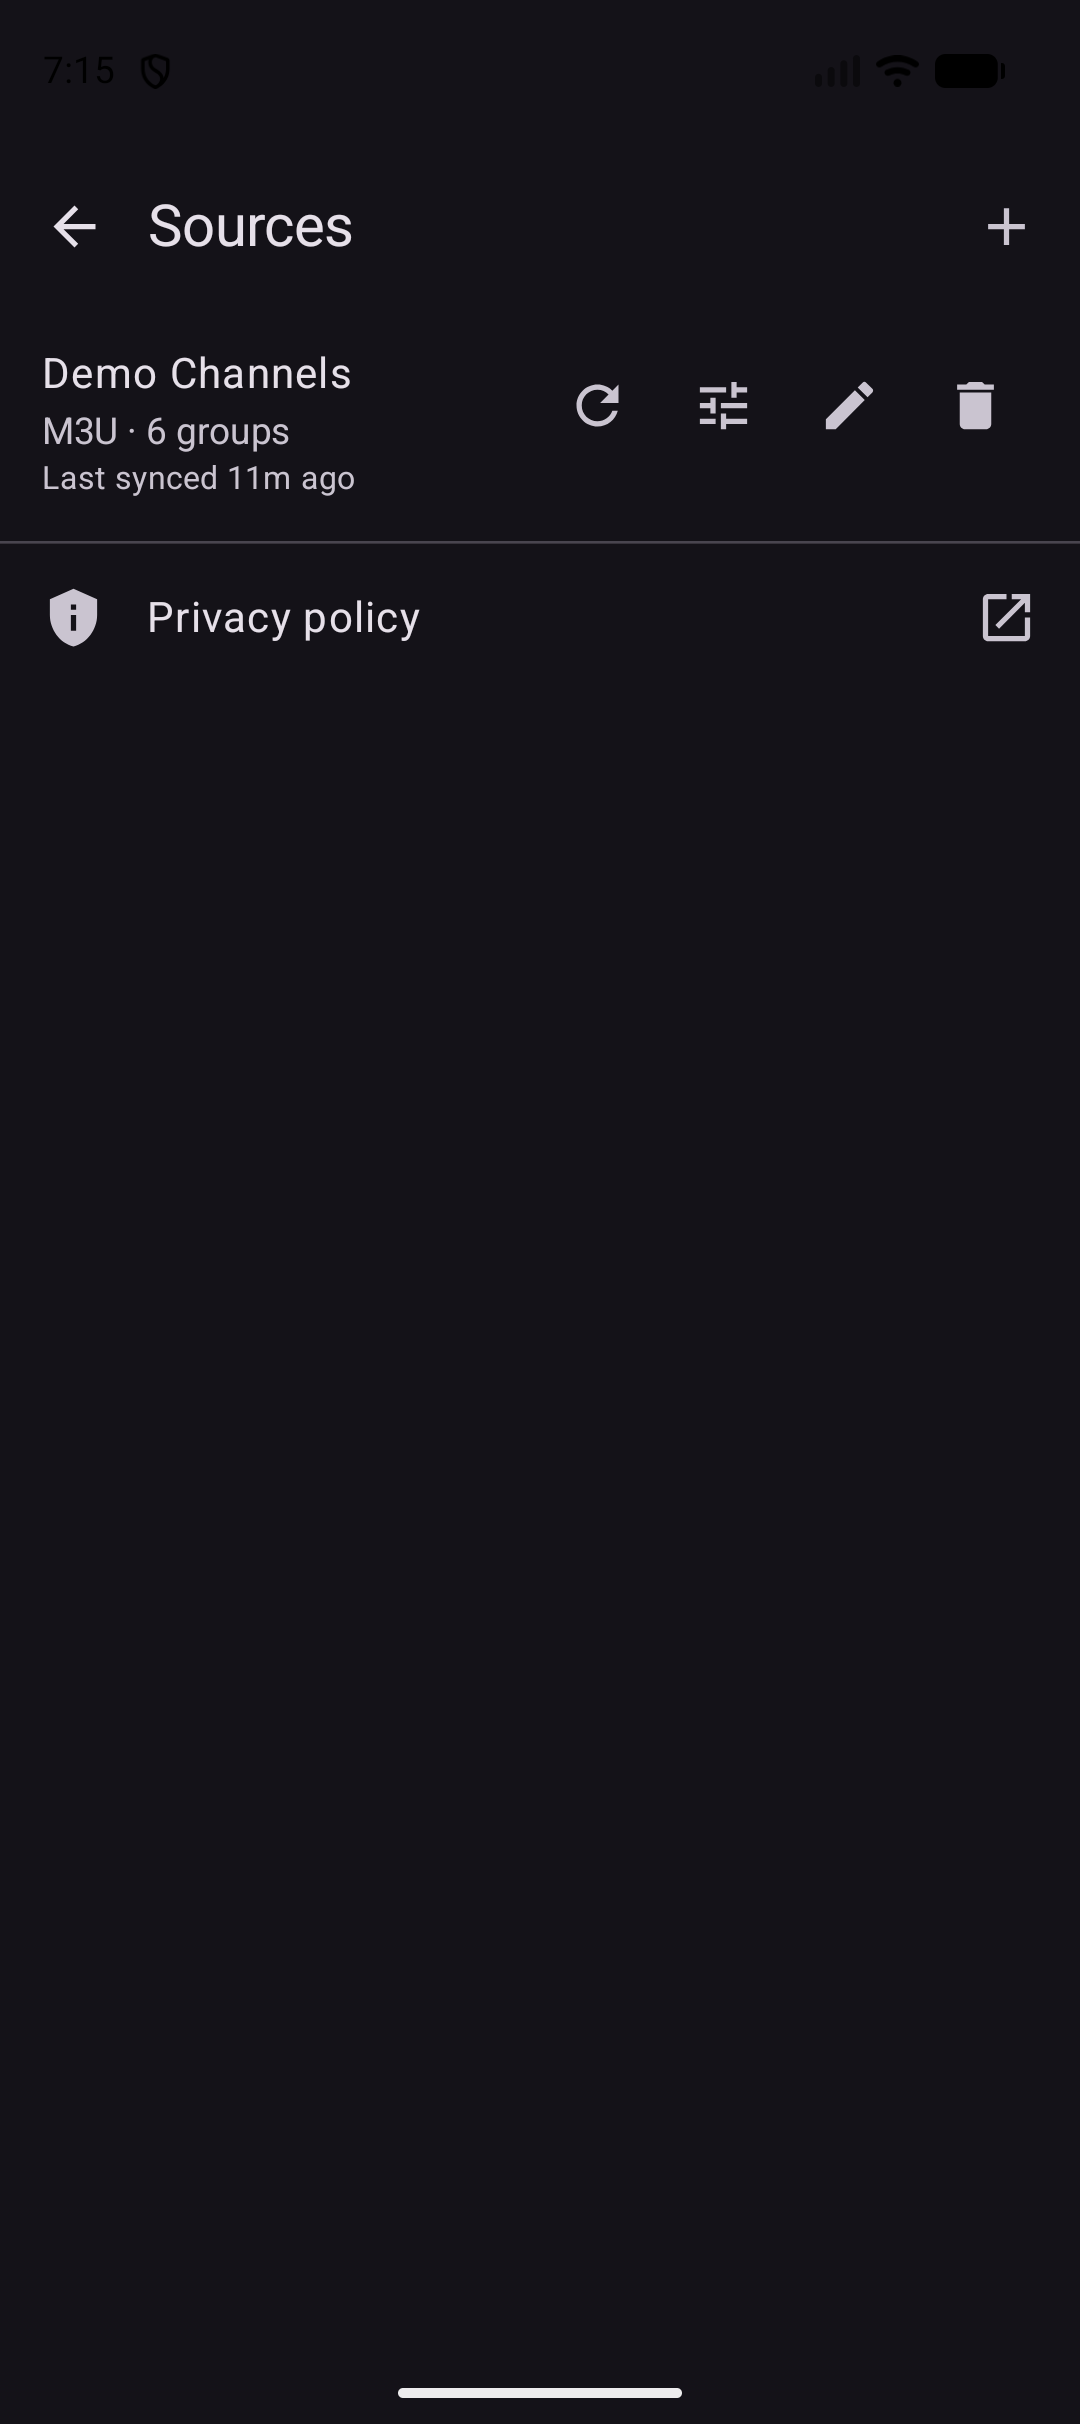
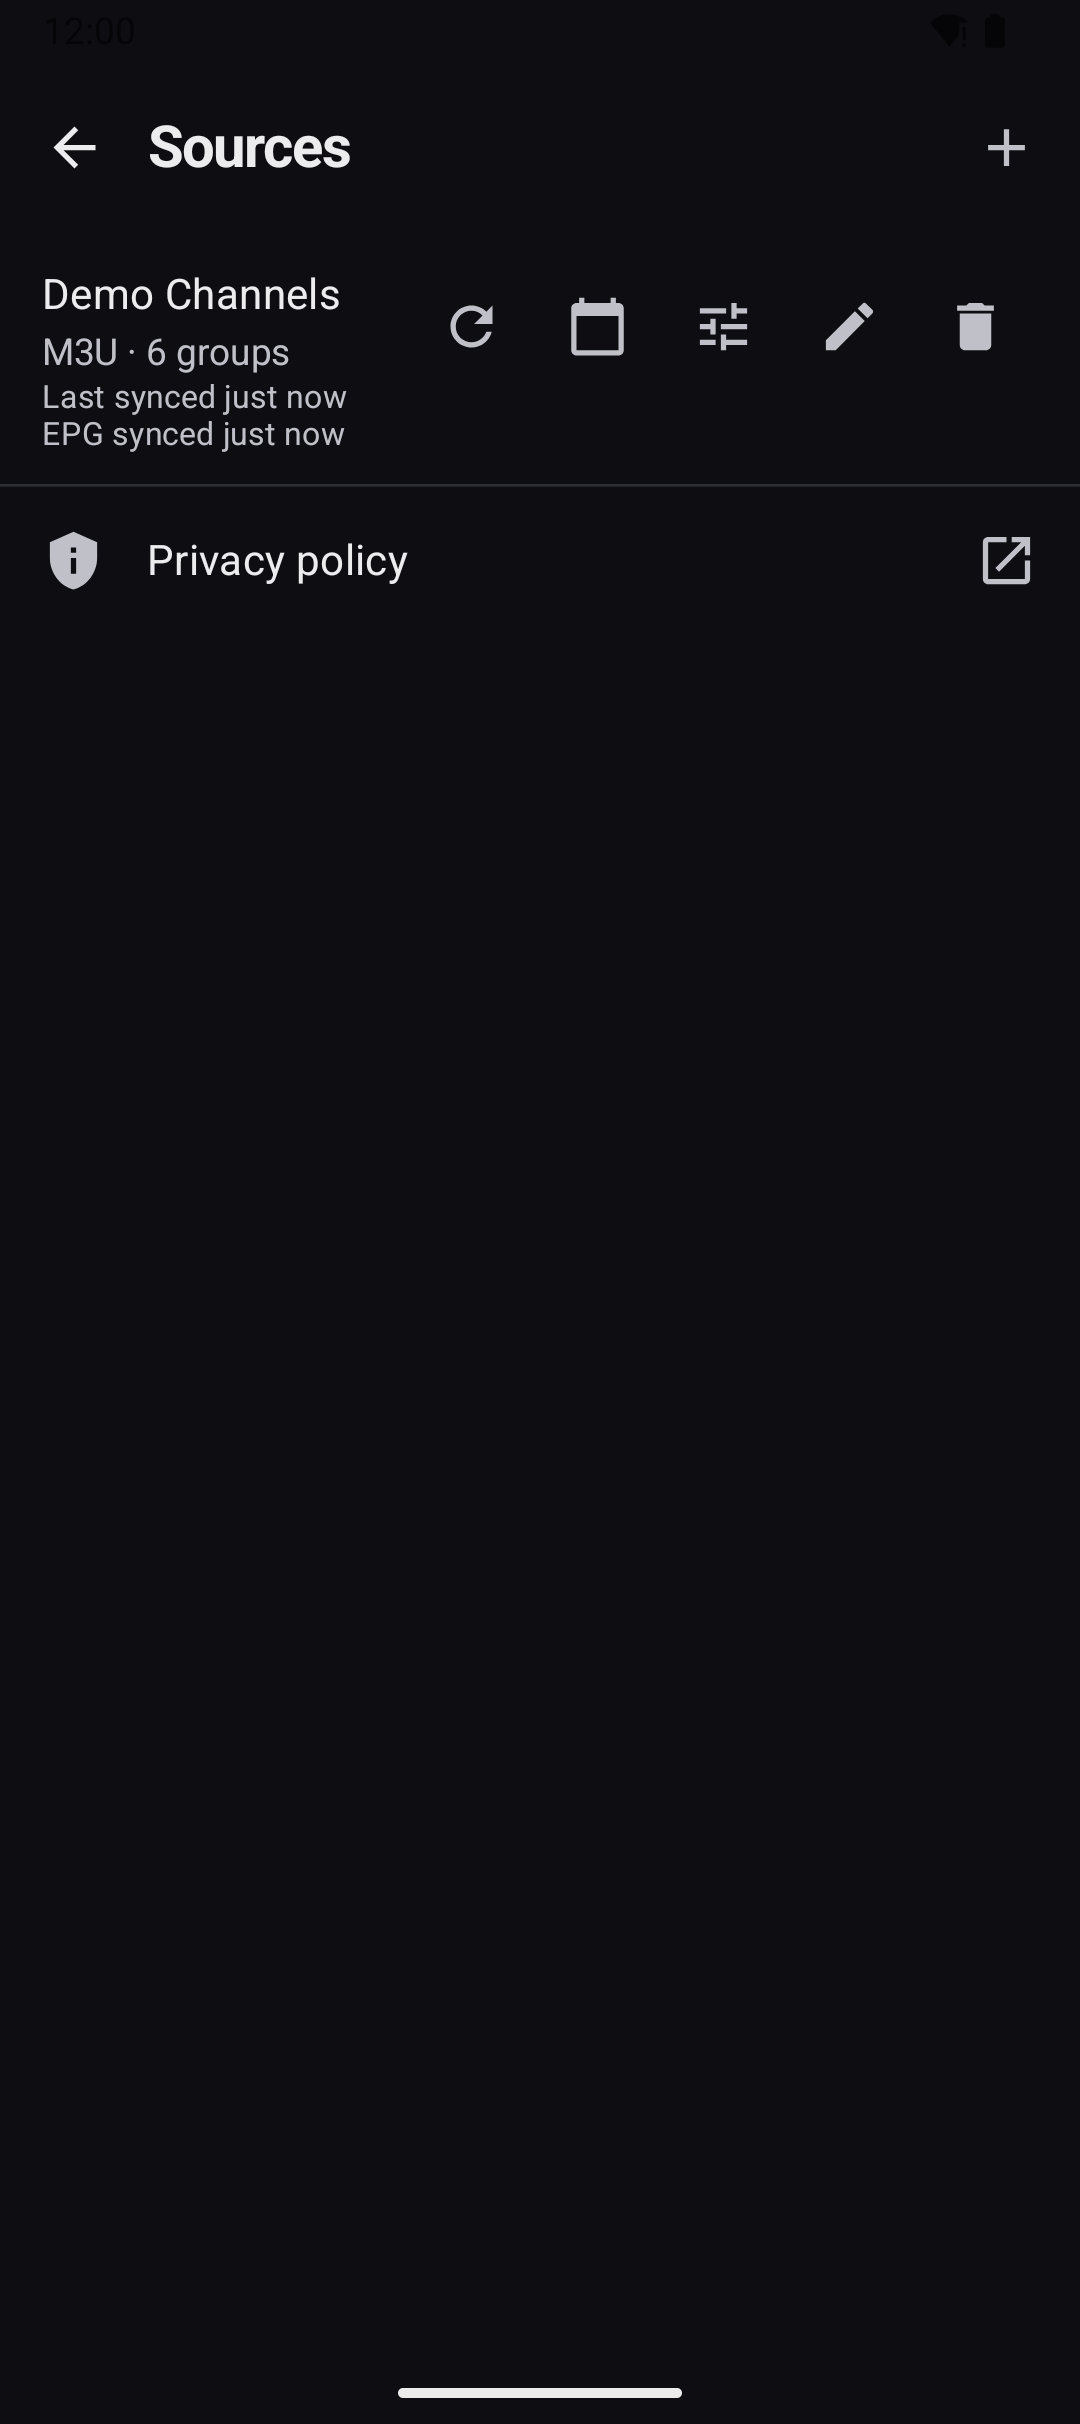
docs: re-capture all store screenshots on amber redesign, add tablet sets
Old phone/TV sets predated the theme redesign and the EPG fixture, and
Play Console additionally wants 7" and 10" tablet sets. All four
profiles now show six surfaces including the populated guide and
per-row now-playing — captured via the scripted capture-flow.yaml on
android-36 emulators, release build, fresh EPG.

diff --git a/docs/screenshots/README.md b/docs/screenshots/README.md
@@ -1,41 +1,74 @@
 # Play Store screenshot assets
 
-Captured against the `screenshots.m3u` fixture (public-domain HLS streams,
-no broadcaster references) on a Pixel 9a emulator (1080×2424, Android 17,
-release APK v1.4.2). Re-capture by:
+Four device sets (phone, 7" tablet, 10" tablet, Android TV), six surfaces
+each, captured against the `screenshots.m3u` fixture + `screenshots-epg.xml`
+EPG (public-domain HLS streams, generic programme titles, no broadcaster
+references) on the amber redesign, release build.
 
-1. Install the release APK.
-2. Accept the consent dialog.
-3. Settings → + → M3U → URL: `https://derkschooltink.github.io/GoorTV/screenshots.m3u`.
-4. Open the source's Groups dialog, tap **All**, **Save** (new sources default
-   to "no groups selected" — this is intentional).
-5. Drive the flows captured below.
+| Set | Resolution | Play Console slot |
+|---|---|---|
+| `phone/` | 1080×2424 | Phone screenshots |
+| `tablet-7/` | 1080×1920 | 7-inch tablet |
+| `tablet-10/` | 1440×2560 | 10-inch tablet |
+| `tv/` | 1920×1080 | Android TV (TV banner is separate, see store-assets) |
 
-## Phone (1080×2424)
+## Surfaces (identical across sets)
 
 | File | Surface | What it shows |
 |---|---|---|
-| `phone/01-home.png` | Home | 9 channels grouped by category, plus the top-bar (favorites / sort / search / guide / settings) |
-| `phone/02-player.png` | Player | Big Buck Bunny rendering full-screen via Media3 ExoPlayer |
-| `phone/03-settings.png` | Settings | Demo source listed with sync/groups/edit/delete actions, plus the in-app Privacy policy link |
-| `phone/04-search.png` | Search | Search bar focused, Recently Watched rail, grouped channel list |
-| `phone/05-hide-menu.png` | Home (long-press) | DropdownMenu with "Hide channel" — demonstrates UGC moderation per A3.5 |
+| `01-home.png` | Home | Category-grouped channels with EPG now-playing + progress per row |
+| `02-player.png` | Player | Big Buck Bunny fullscreen via Media3 ExoPlayer (Demo News channel) |
+| `03-settings.png` | Settings | Configured source with sync/groups/edit/delete, Privacy policy link |
+| `04-search.png` | Search | Search bar focused over the grouped channel list |
+| `05-hide-menu.png` | Home (long-press) | "Hide channel" menu — UGC moderation per A3.5 |
+| `06-guide.png` | Guide | Populated XMLTV grid with now-line |
 
-## TV (3840×2160)
+## Re-capture procedure (scripted)
 
-Captured against the same fixture on an AOSP TV on x86 emulator (Android 16,
-debug build from `fix/cast-non-gms-crash`). Play Store accepts either
-1920×1080 or 3840×2160 for TV screenshots; the 4K natives are kept as-is.
+XMLTV timestamps are absolute, so first regenerate the EPG fixture and let
+GitHub Pages publish it (the M3U's `url-tvg` points at the Pages URL; the
+app auto-discovers it on first sync):
 
-| File | Surface | What it shows |
-|---|---|---|
-| `tv/01-home.png` | Home | Top bar, Recently Watched, category-grouped channel list |
-| `tv/02-player.png` | Player | Big Buck Bunny fullscreen via Media3 ExoPlayer (back arrow is intentionally always visible) |
-| `tv/03-settings.png` | Settings | Sources list with M3U source + Privacy policy entry |
-| `tv/04-search.png` | Search | Search bar focused, channel list below |
-| `tv/05-hide-menu.png` | Home (MENU key) | DropdownMenu with "Hide channel" — UGC moderation per A3.5 |
+```bash
+python3 docs/screenshots/generate-epg.py docs/screenshots-epg.xml
+# commit + merge to main, wait for Pages deploy (~1 min), verify:
+curl -s https://derkschooltink.github.io/GoorTV/screenshots-epg.xml | head -2
+```
 
-**Capture note:** AOSP TV on x86 ships GMS basic (Play Store is present) but
-lacks the Cast dynamite module. Pre-`fix/cast-non-gms-crash` builds would
-crash the process on every channel tap. The fix probes
-`CastContext.getSharedInstance` once and skips Cast UI when unavailable.
+Per device profile (AVDs: `shot_phone` 1080×2424@420, `shot_tab7`
+1080×1920@280, `shot_tab10` 1440×2560@320 on `google_apis`;
+`shot_tv` 1920×1080@320 on `android-tv` — all android-36/arm64):
+
+```bash
+emulator -avd shot_phone -no-snapshot -no-boot-anim -no-audio -wipe-data &
+adb wait-for-device
+adb install -r app/build/outputs/apk/release/app-release.apk   # release build!
+# deterministic captures:
+for s in window_animation_scale transition_animation_scale animator_duration_scale; do
+  adb shell settings put global $s 0; done
+# clean status bar (phone/tablet only):
+adb shell settings put global sysui_demo_allowed 1
+adb shell am broadcast -a com.android.systemui.demo -e command enter
+adb shell am broadcast -a com.android.systemui.demo -e command clock -e hhmm 1200
+adb shell am broadcast -a com.android.systemui.demo -e command battery -e level 100 -e plugged false
+adb shell am broadcast -a com.android.systemui.demo -e command network -e wifi show -e level 4
+adb shell am broadcast -a com.android.systemui.demo -e command notifications -e visible false
+# capture all six surfaces:
+cd docs/screenshots/phone
+maestro test -e M3U_URL=https://derkschooltink.github.io/GoorTV/screenshots.m3u ../capture-flow.yaml
+```
+
+Gotchas baked into `capture-flow.yaml` (don't relearn them):
+
+- `M3U_URL` must come via `-e` **before** the flow path; an in-flow `env:`
+  default silently overrides the CLI value.
+- Type only `https://` URLs — the emulator IME upgrades a typed `http://`
+  to `https://`, which broke `10.0.2.2` local-server fixtures.
+- Text input races the IME on cold emulators; the add-source dialog section
+  asserts each field and retries.
+- Wait/tap targets use the first list row ("Open Documentary") or scroll
+  first — TV viewports fit only ~4 rows.
+
+**TV capture note:** AOSP TV images ship GMS basic without the Cast dynamite
+module; `CastAvailability` gates all Cast SDK entry points, otherwise every
+channel tap crashes (see CLAUDE.md, Casting).
